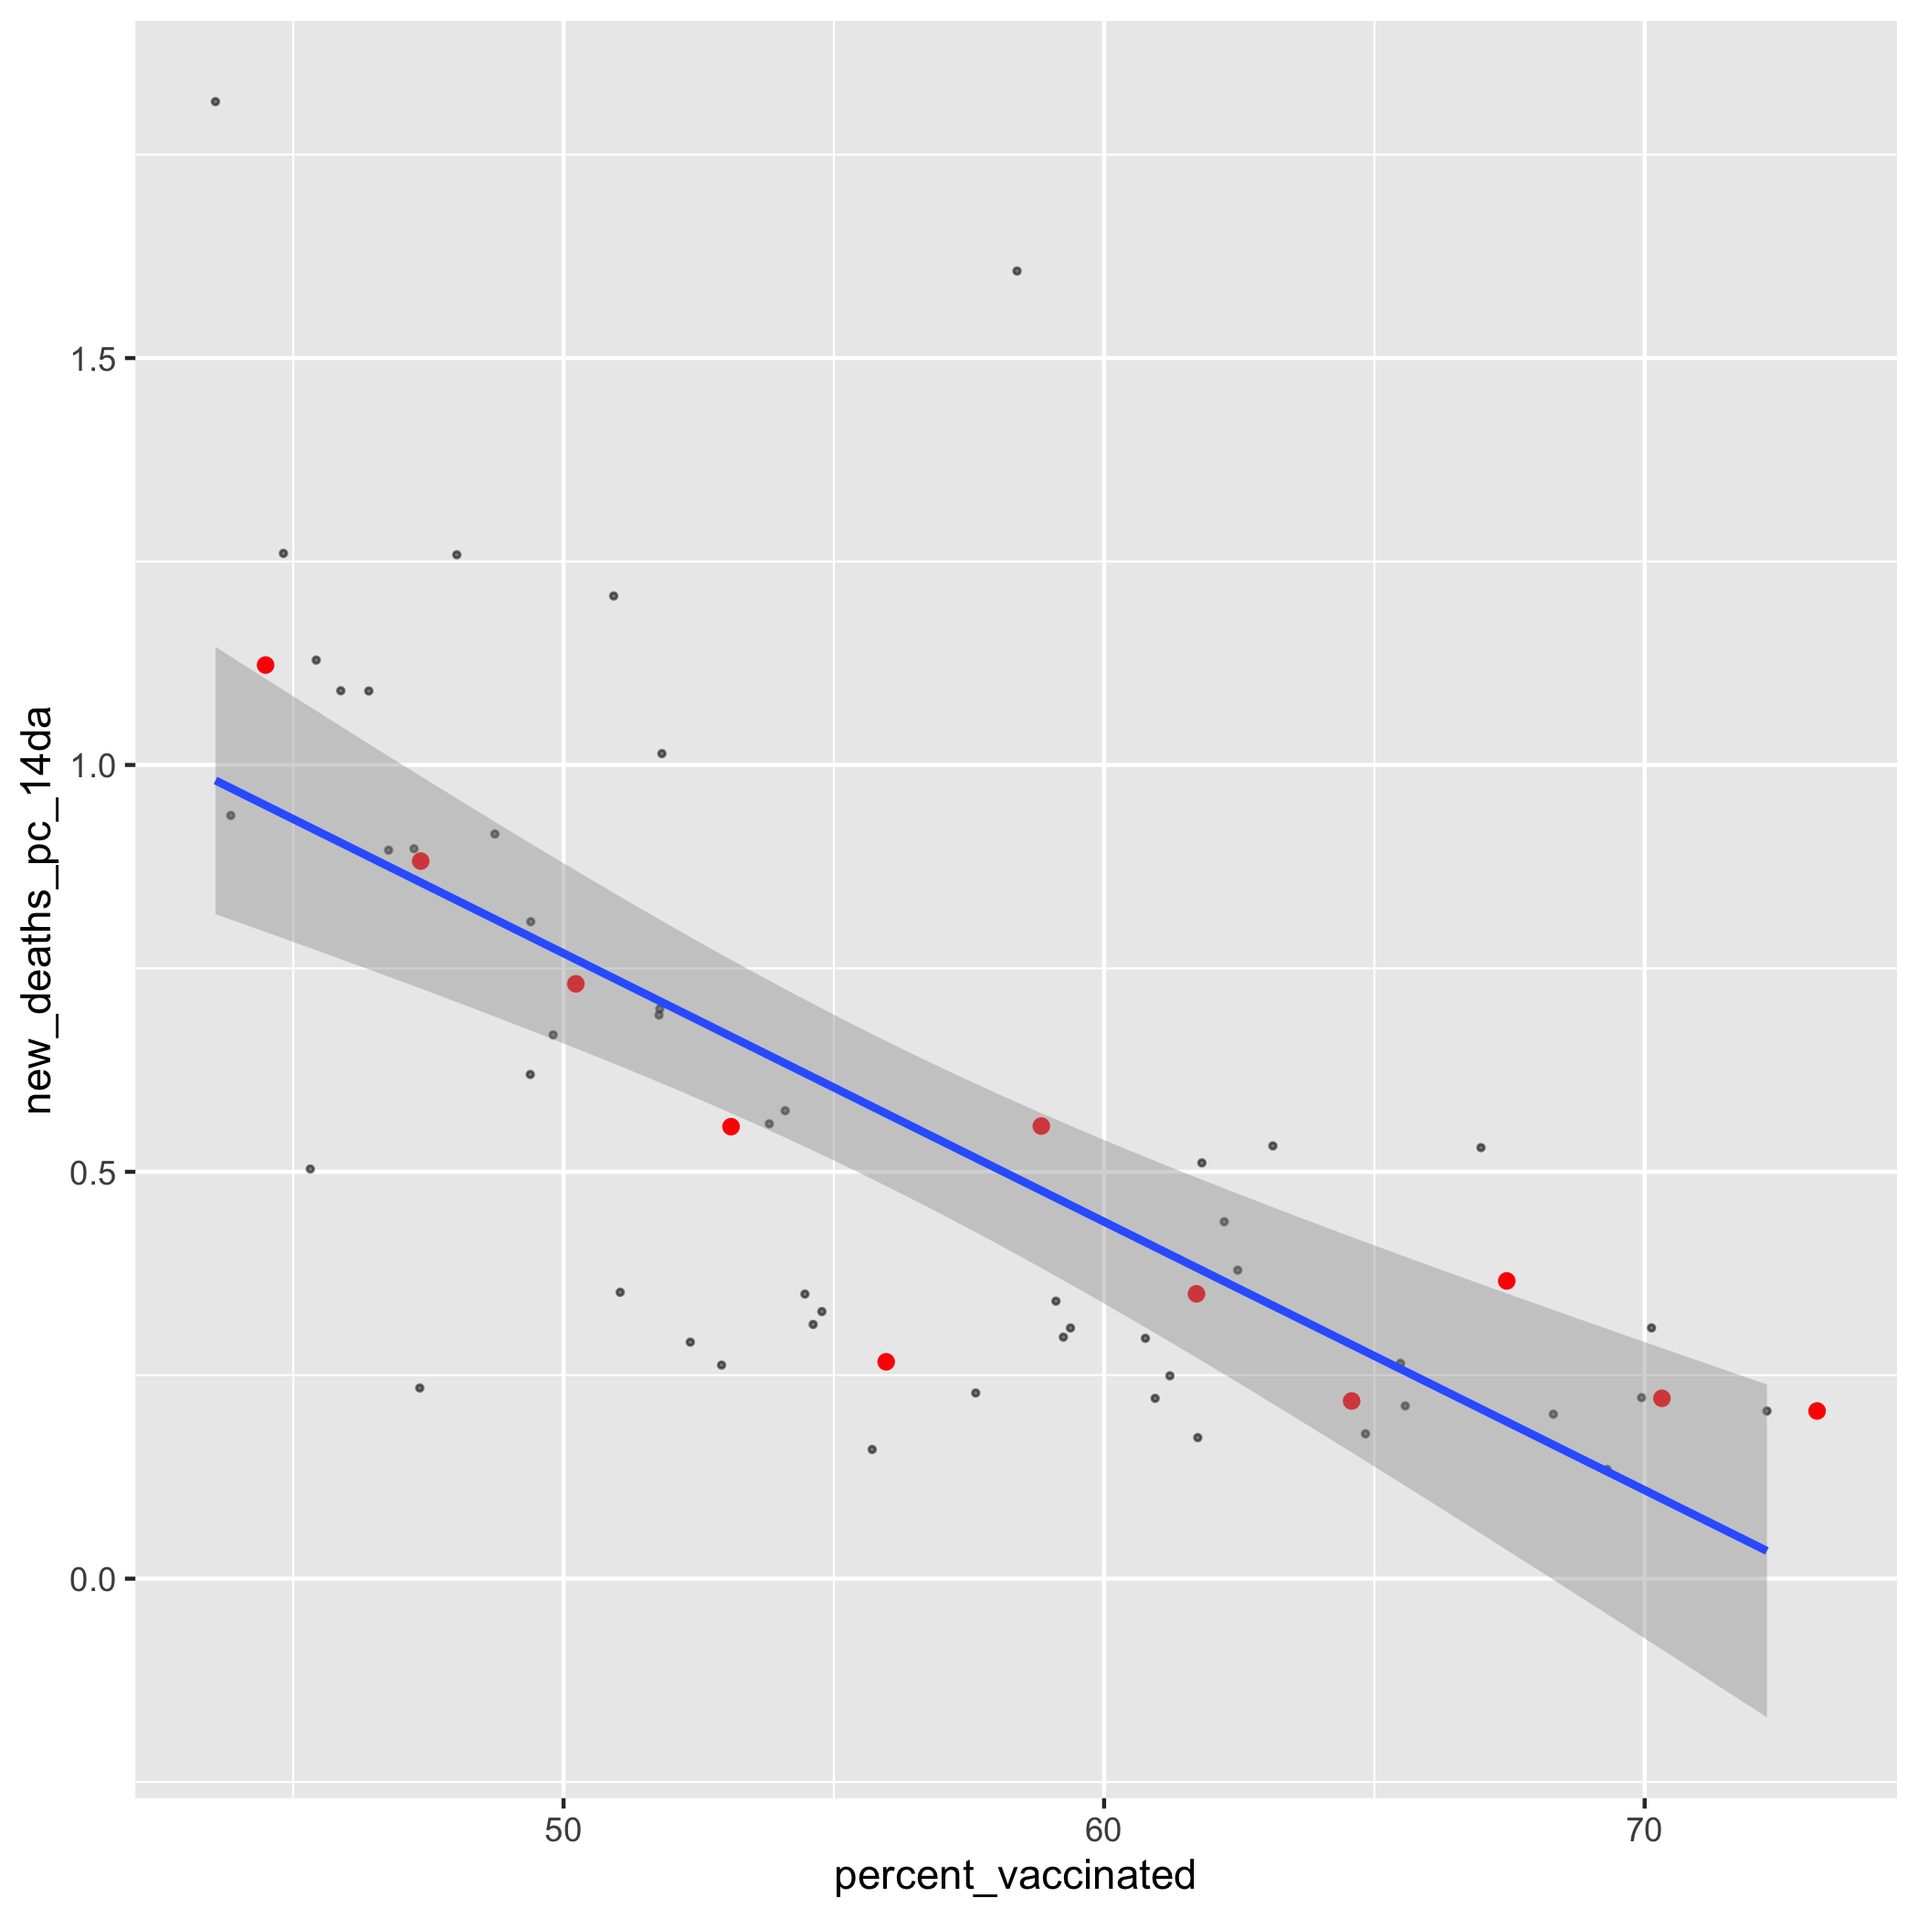
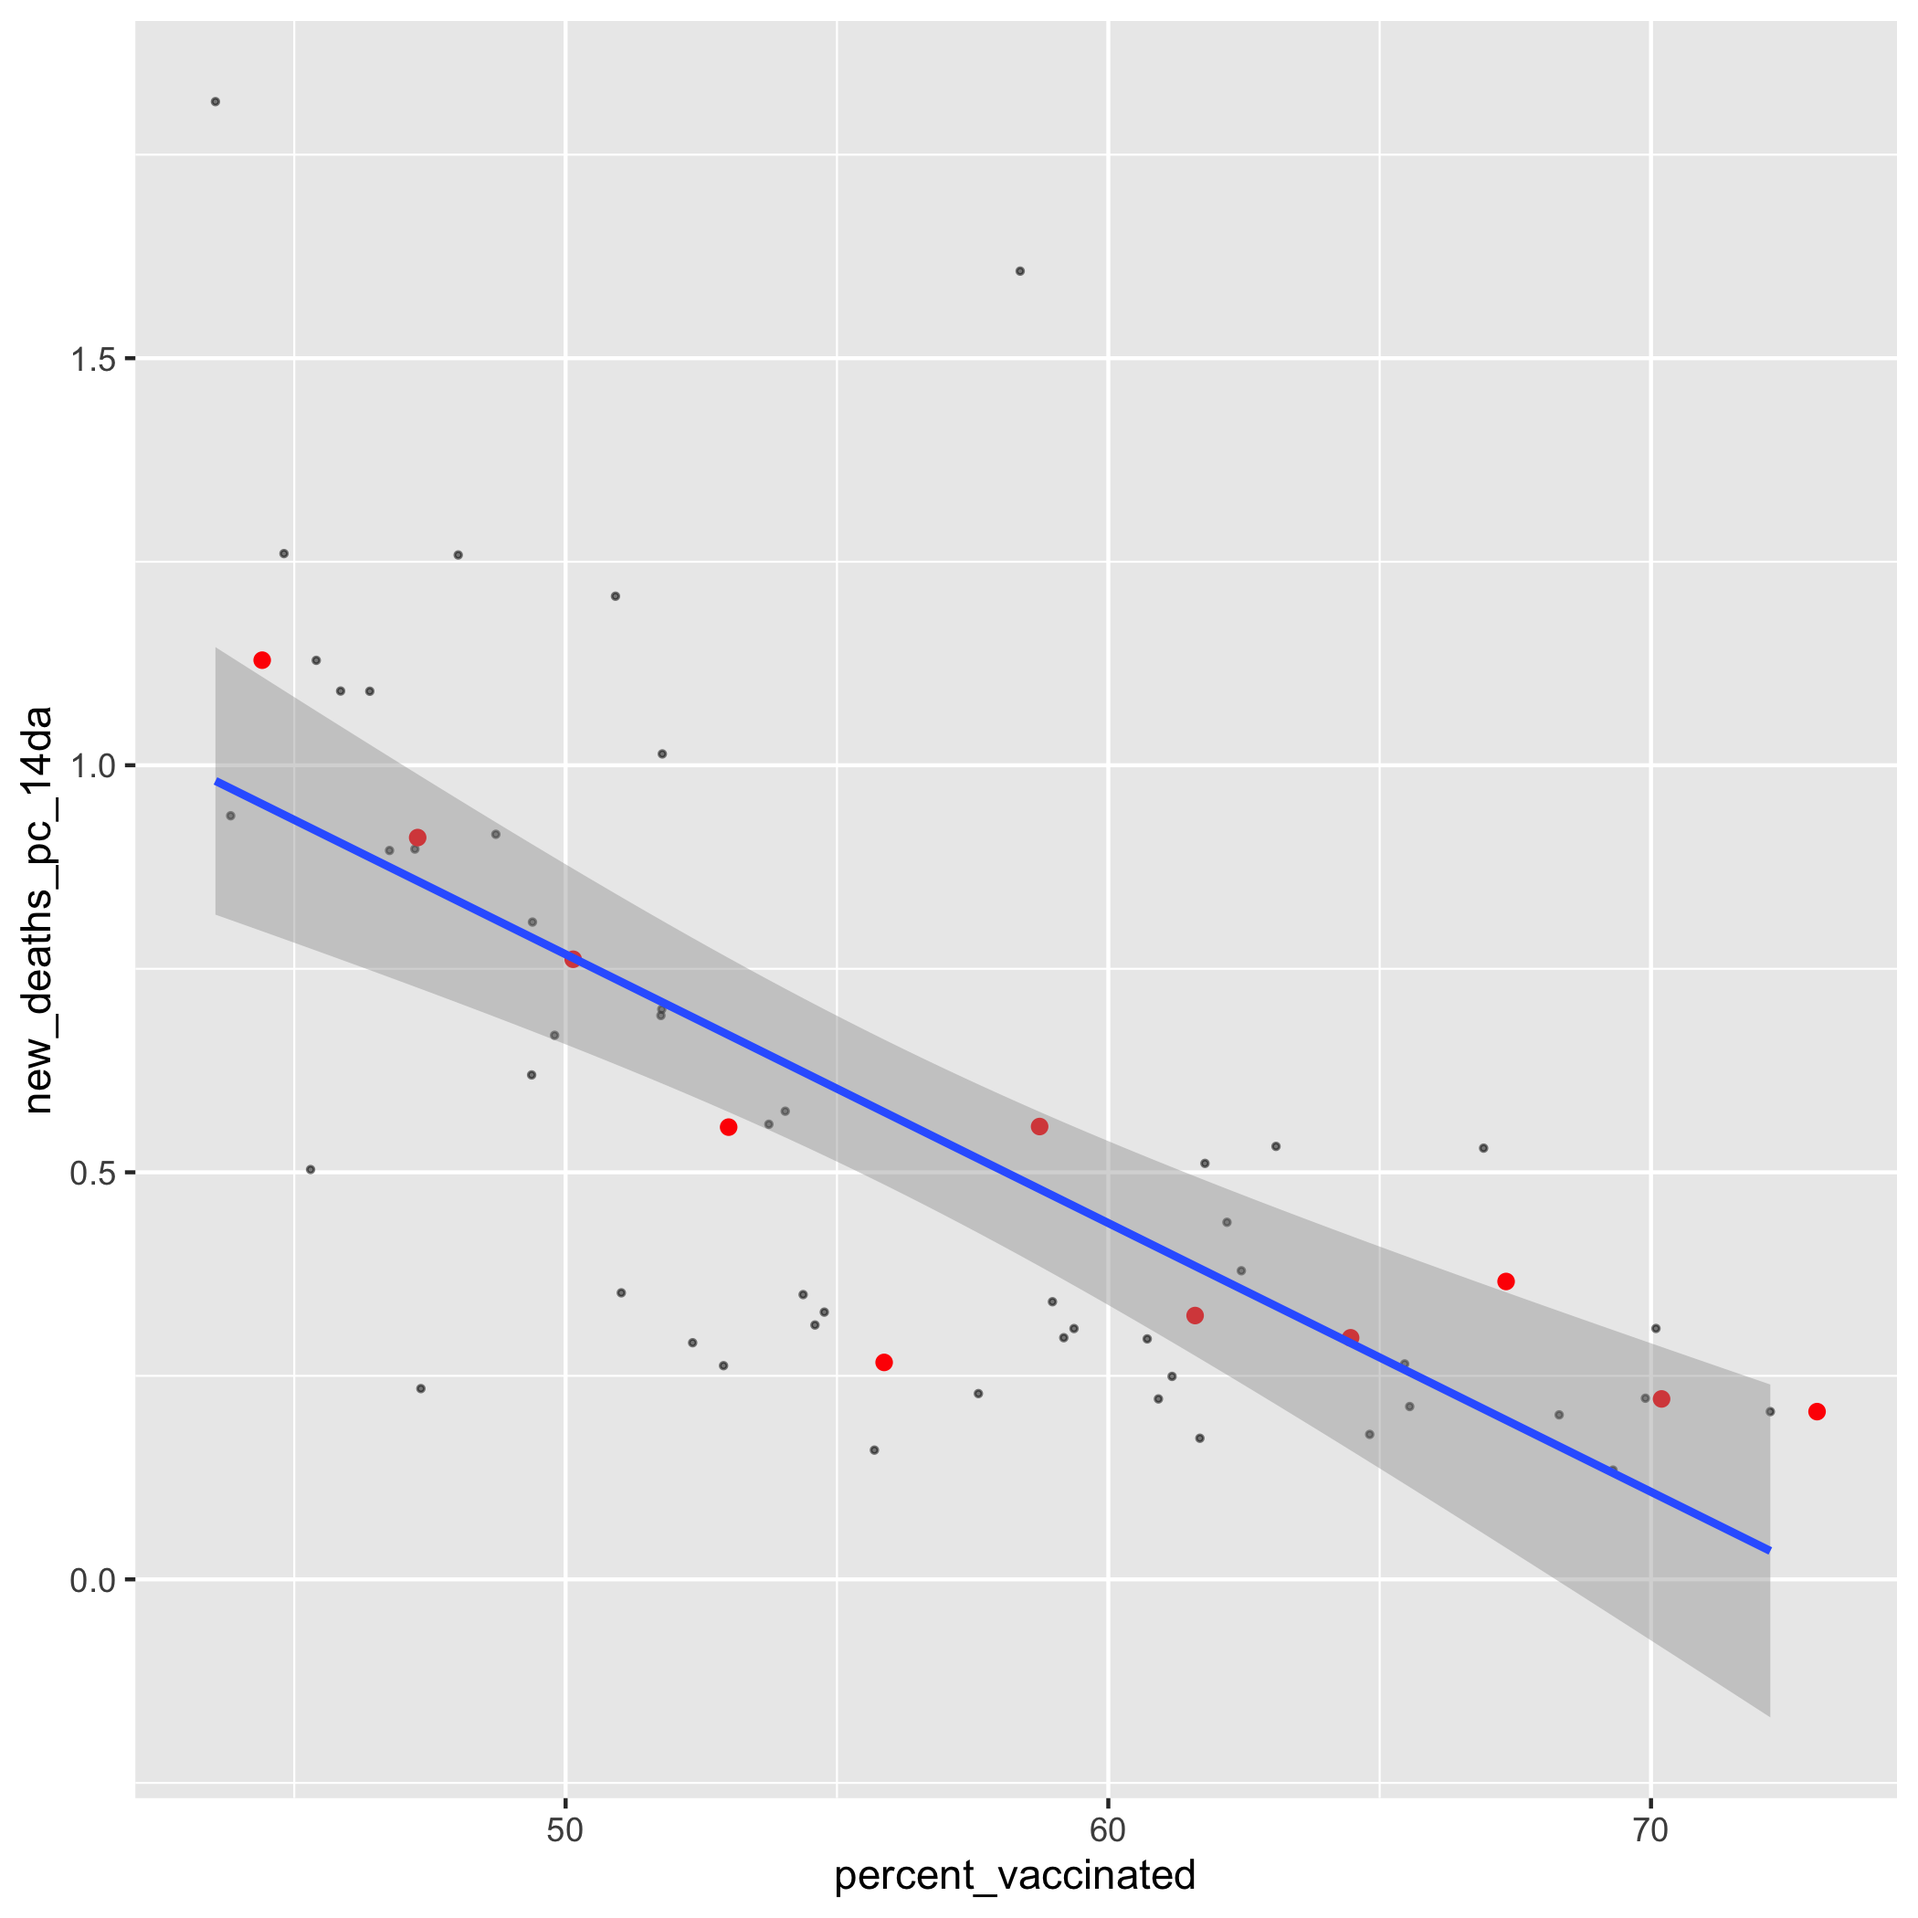
update data for slides

diff --git a/static/slides/06-slides.html b/static/slides/06-slides.html
@@ -216,11 +216,13 @@ class:inverse, center, middle
 
 
 ```r
-covid &lt;- COVID19::covid19(
-  country = "US",
-  level = 2,
-  verbose = F
-)
+# covid &lt;- COVID19::covid19(
+#   country = "US",
+#   level = 2,
+#   verbose = F
+# )
+
+load(url("https://pols1600.paultesta.org/files/data/covid.rda"))
 ```
 
 ---
@@ -436,7 +438,7 @@ dim(covid_us)
 ```
 
 ```
-[1] 55896    52
+[1] 54246    52
 ```
 
 ```r
@@ -457,7 +459,7 @@ dim(tmp) # Same number of rows as covid_us w/ 8 additional columns
 ```
 
 ```
-[1] 55896    60
+[1] 54246    60
 ```
 
 
@@ -470,7 +472,7 @@ dim(tmp)
 ```
 
 ```
-[1] 55896    60
+[1] 54246    60
 ```
 
 ```r
@@ -491,7 +493,7 @@ dim(covid_df)  # Same number of rows as tmp w/ 2 additional columns
 ```
 
 ```
-[1] 55896    62
+[1] 54246    62
 ```
 
 
@@ -969,7 +971,7 @@ lm(formula = new_deaths ~ winner, data = covid_df)
 
 Coefficients:
 (Intercept)  winnerBiden  
-     18.659        3.505  
+      18.99         3.57  
 ```
 
 `m1` is the equation for a very simple line defined by two points:
@@ -1031,7 +1033,7 @@ table(m1$model$winner)
 ```
 
 Trump Biden 
-27338 27588 
+26538 26788 
 ```
 
 ```r
@@ -1041,7 +1043,7 @@ table(model.matrix(m1)[,2])
 ```
 
     0     1 
-27338 27588 
+26538 26788 
 ```
 
 ---
@@ -1087,7 +1089,7 @@ lm(formula = new_deaths_pc_14da ~ percent_vaccinated, data = covid_df,
 
 Coefficients:
        (Intercept)  percent_vaccinated  
-           2.41795            -0.03299  
+           2.41854            -0.03301  
 ```
 
 
